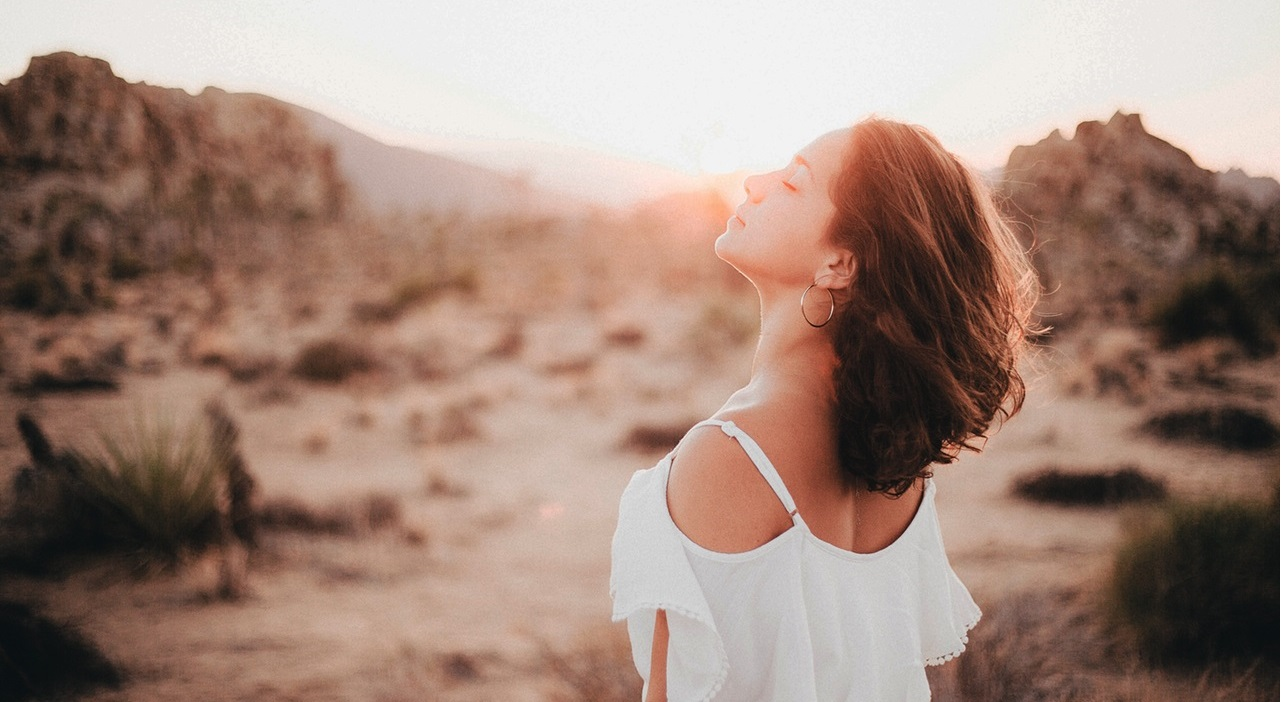
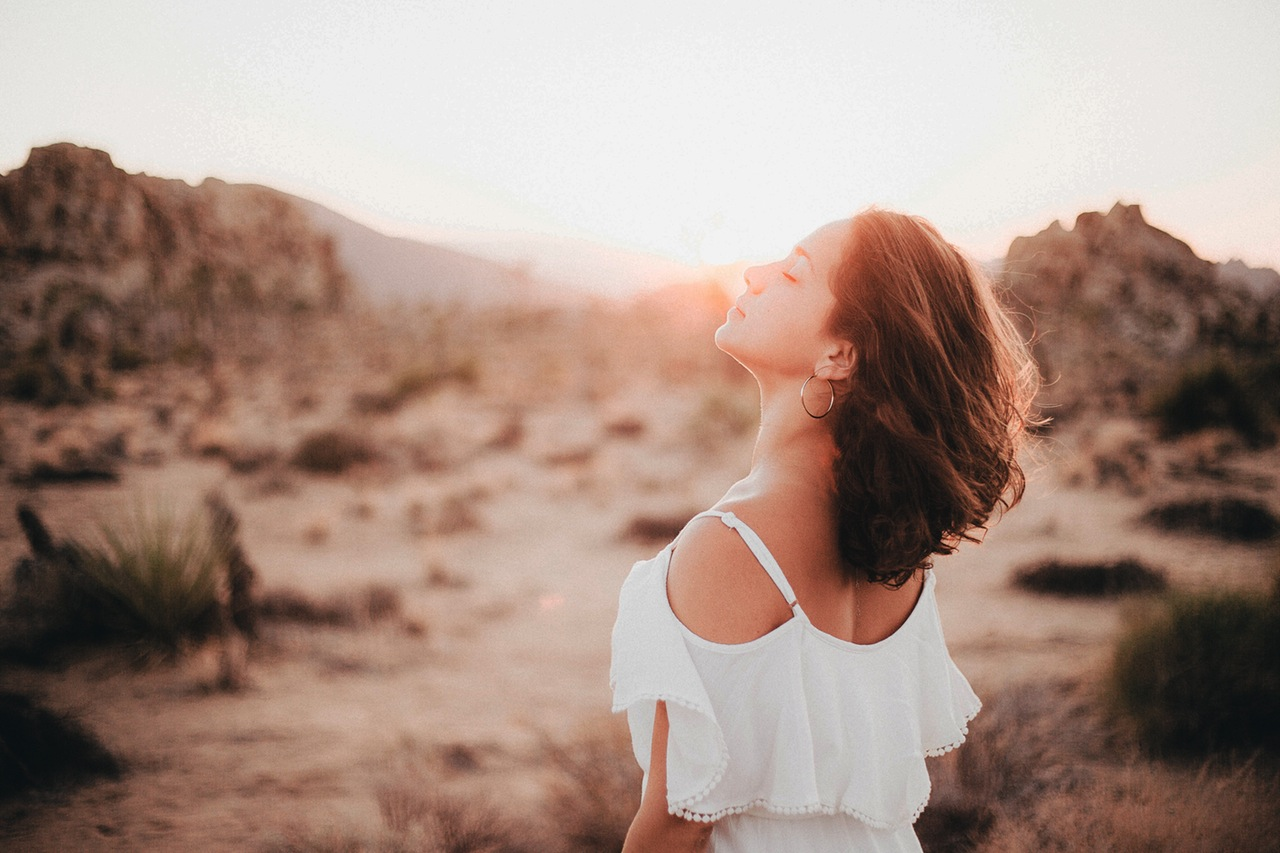
version actualizada

diff --git a/index.html b/index.html
@@ -36,10 +36,10 @@
                     <div class="collapse navbar-collapse navbar-ex1-collapse pull-right">         
                         <ul class="nav navbar-nav">
                             <li>
-                                <a class="links-scroll" href="#us">¿Quiénes somos?</a>
+                                <a class="links-scroll" href="#identidad">Valores</a>
                             </li>
                             <li>
-                                <a class="links-scroll" href="#identidad">Valores</a>
+                                <a class="links-scroll" href="#us">¿Quiénes Somos?</a>
                             </li>
                             <li>
                                 <a class="links-scroll" href="#services">Talleres</a>
@@ -66,7 +66,7 @@
                 </ol>
                 <div class="carousel-inner">
                     <div class="item active">
-                        <img src="images/sliders/m3.jpeg">
+                        <img src="images/sliders/m3.jpeg" >
                         <div class="container">
                             <div class="carousel-caption">
                                 <h2>El primer paso no te lleva  a donde quieres ir ...<br>
@@ -75,7 +75,7 @@
                         </div>
                     </div>
                     <div class="item">
-                        <img src="images/sliders/pai1.jpeg">
+                        <img src="images/sliders/pai1.jpeg" >
                         <div class="container">
                             <div class="carousel-caption">
                                 <h2>Ninguna persona, cosa o lugar  tiene poder sobre mí, por que solo yo gobierno en mi mente, yo creo en mí realidad y todo en lo que ella existe.</h2>        
@@ -191,7 +191,7 @@
             </div>
             <div class="row">
                 <div class="col-md-4 col-xs-12">
-                    <div id="terapia1" class="configdiv wow fadeInDown" data-wow-duration="10s">
+                    <div id="terapia1" class="configdiv wow fadeInDown" data-wow-duration="5s">
                         <div class="opacitydiv">
                             <div class="big">
                                 <h4 class="text-center">Terapia con niños</h4>
@@ -203,7 +203,7 @@
                     </div>
                 </div>
                 <div class="col-md-4 col-xs-12">
-                    <div id="terapia2" class="configdiv wow fadeInDown" data-wow-duration="10s">
+                    <div id="terapia2" class="configdiv wow fadeInDown" data-wow-duration="5s">
                         <div class="opacitydiv">
                             <div class="big">
                                 <h4 class="text-center">Terapia con adolescentes</h4>
@@ -215,7 +215,7 @@
                     </div>
                 </div>
                 <div class="col-md-4 col-xs-12">
-                    <div id="terapia3" class="configdiv wow fadeInDown" data-wow-duration="10s">
+                    <div id="terapia3" class="configdiv wow fadeInDown" data-wow-duration="5s">
                         <div class="opacitydiv">
                             <div class="big">
                                 <h4 class="text-center">Terapia con adultos</h4>
@@ -229,7 +229,7 @@
             </div>
             <div class="row">
                 <div class="col-md-4 col-xs-12">
-                    <div id="terapia4" class="configdiv wow fadeInDown" data-wow-duration="10s">
+                    <div id="terapia4" class="configdiv wow fadeInDown" data-wow-duration="5s">
                         <div class="opacitydiv">
                             <div class="big">
                                 <h4>Terapia de pareja</h4>
@@ -248,7 +248,7 @@
                     </div>
                 </div>
                 <div class="col-md-4 col-xs-12">
-                    <div id="terapia5" class="configdiv wow fadeInDown" data-wow-duration="10s">
+                    <div id="terapia5" class="configdiv wow fadeInDown" data-wow-duration="5s">
                         <div class="opacitydiv">
                             <div class="big">
                                 <h4>Terapia familiar</h4>
@@ -260,7 +260,7 @@
                     </div>
                 </div>  
                 <div class="col-md-4 col-xs-12">
-                    <div id="terapia6" class="configdiv wow fadeInDown" data-wow-duration="10s">
+                    <div id="terapia6" class="configdiv wow fadeInDown" data-wow-duration="5s">
                         <div class="opacitydiv">
                             <div class="big">
                                 <h4>Terapia para familias con problemas de Violencia</h4>
@@ -288,7 +288,7 @@
             </div>
             <div class="row">
                 <div class="col-md-6 col-xs-12">
-                    <div id="taller1" class="configdiv wow bounceInLeft" data-wow-duration="5s">
+                    <div id="taller1" class="configdiv wow fadeInDown" data-wow-duration="5s">
                         <div class="opacitydiv">
                             <div class="big">
                                 <h4>Taller Vivencial Identidad Femenina</h4>
@@ -301,7 +301,7 @@
                     </div>
                 </div>
                 <div class="col-md-6 col-xs-12">
-                    <div id="taller2" class="configdiv wow bounceInRight" data-wow-duration="5s">
+                    <div id="taller2" class="configdiv wow fadeInDown" data-wow-duration="5s">
                         <div class="opacitydiv">
                             <div class="big">
                                 <h4>Taller de seguridad infantil y prevención del abuso sexual</h4>
@@ -316,7 +316,7 @@
             </div>
             <div class="row">
                 <div class="col-md-6 col-xs-12">
-                    <div id="taller3" class="configdiv wow bounceInLeft" data-wow-duration="5s">
+                    <div id="taller3" class="configdiv wow fadeInDown" data-wow-duration="5s">
                         <div class="opacitydiv">
                             <div class="big">
                                 <h4>Plática de establecimiento de límites</h4>
@@ -328,7 +328,7 @@
                     </div>
                 </div>
                 <div class="col-md-6 col-xs-12">
-                    <div id="taller4" class="configdiv wow bounceInRight" data-wow-duration="5s">
+                    <div id="taller4" class="configdiv wow fadeInDown" data-wow-duration="5s">
                         <div class="opacitydiv">
                             <div class="big">
                                 <h4>Plática de Duelo en Niños</h4>
@@ -342,7 +342,7 @@
             </div>
             <div class="row">
                 <div class="col-md-6 col-xs-12">
-                    <div id="taller5" class="configdiv wow bounceInLeft" data-wow-duration="5s">
+                    <div id="taller5" class="configdiv wow fadeInDown" data-wow-duration="5s">
                         <div class="opacitydiv">
                             <div class="big">
                                 <h4>Plática de violencia</h4>
@@ -354,7 +354,7 @@
                     </div>
                 </div>
                 <div class="col-md-6 col-xs-12">
-                    <div id="taller6" class="configdiv wow bounceInRight" data-wow-duration="5s">
+                    <div id="taller6" class="configdiv wow fadeInDown" data-wow-duration="5s">
                         <div class="opacitydiv">
                             <div class="big">
                                 <h4>Plática de trabajo con Emociones</h4>
@@ -368,7 +368,7 @@
             </div>
             <div class="row">
                 <div class="col-md-6 col-xs-12">
-                    <div id="taller7" class="configdiv wow bounceInLeft" data-wow-duration="5s">
+                    <div id="taller7" class="configdiv wow fadeInDown" data-wow-duration="5s">
                         <div class="opacitydiv">
                             <div class="big">
                                 <h4>Plática de sexualidad</h4>
@@ -380,7 +380,7 @@
                     </div>
                 </div>
                 <div class="col-md-6 col-xs-12">
-                    <div id="taller8" class="configdiv wow bounceInRight" data-wow-duration="5s">
+                    <div id="taller8" class="configdiv wow fadeInDown" data-wow-duration="5s">
                         <div class="opacitydiv">
                             <div class="big">
                                 <h4>Plática de adicciones</h4>
@@ -395,7 +395,7 @@
             <div class="row">
                 <div class="col-md-3 xs-hidden"></div>
                 <div class="col-md-6 col-xs-12">
-                    <div id="taller9" class="configdiv wow bounceInLeft" data-wow-duration="5s">
+                    <div id="taller9" class="configdiv wow fadeInDown" data-wow-duration="5s">
                         <div class="opacitydiv">
                             <div class="big">
                                 <h4>Platica de Abuso Sexual</h4>
@@ -423,7 +423,7 @@
             </div>
             <div class="row">
                 <div class="col-md-6 col-xs-12">
-                    <div id="otros10" class="configdiv wow flipInX" data-wow-duration="3s">
+                    <div id="otros10" class="configdiv wow fadeInDown" data-wow-duration="3s">
                         <div class="opacitydiv">
                             <div class="big">
                                 <h4>Apoyo psicológico vía telefónica e Internet</h4>
@@ -435,7 +435,7 @@
                     </div>
                 </div>
                 <div class="col-md-6 col-xs-12">
-                    <div id="otros11" class="configdiv wow flipInX" data-wow-duration="3s">
+                    <div id="otros11" class="configdiv wow fadeInDown" data-wow-duration="3s">
                         <div class="opacitydiv">
                             <div class="big">
                                 <h4>Trabajo con agresores</h4>
@@ -449,7 +449,7 @@
             </div>
             <div class="row">
                 <div class="col-md-6 col-xs-12">
-                    <div id="otros12" class="configdiv wow flipInX" data-wow-duration="3s">
+                    <div id="otros12" class="configdiv wow fadeInDown" data-wow-duration="3s">
                         <div class="opacitydiv">
                             <div class="big">
                                 <h4>Grupo Horus</h4>
@@ -463,7 +463,7 @@
                     </div>
                 </div>
                 <div class="col-md-6 col-xs-12">
-                    <div id="otros13" class="configdiv wow flipInX" data-wow-duration="3s">
+                    <div id="otros13" class="configdiv wow fadeInDown" data-wow-duration="3s">
                         <div class="opacitydiv">
                             <div class="big">
                                 <h4>ECOS</h4>
@@ -479,7 +479,7 @@
             <div class="row">
                 <div class="col-md-3 xs-hidden"></div>
                 <div class="col-md-6 col-xs-12">
-                    <div id="otros14" class="configdiv wow flipInX" data-wow-duration="10s">
+                    <div id="otros14" class="configdiv wow fadeInDown" data-wow-duration="5s">
                         <div class="opacitydiv">
                             <div class="big">
                                 <h4>Área Académica y de Investigación.</h4>
@@ -502,8 +502,8 @@
         </div>
     </section>
     <section id="testimonio"><!--testimonios-->
-        <div class="container">
-            <div class="row">
+        <div class="row quote">
+            <div class="container">
                 <div class="col-xs-12">
                     <div>
                         <h2 class="tittle text-center">Testimonio</h2>
@@ -531,8 +531,8 @@
             </div>
             <div class="row">
                 <div class="col-md-11 col-xs-12">
-                    <div class="pull-right">
-                        <iframe src="https://www.google.com/maps/embed?pb=!1m18!1m12!1m3!1d940.7530302074254!2d-99.14510917083477!3d19.41188226404922!2m3!1f0!2f0!3f0!3m2!1i1024!2i768!4f13.1!3m3!1m2!1s0x85d1fedf9ea96887%3A0xc500348f1d9c23a5!2sDr.+Duran+4%2C+Doctores%2C+06720+Ciudad+de+M%C3%A9xico%2C+D.F.!5e0!3m2!1ses-419!2smx!4v1462417936700" width="400" height="300" frameborder="0" style="border:0" allowfullscreen></iframe>
+                    <div class="pull-right map">
+                        <iframe src="https://www.google.com/maps/embed?pb=!1m18!1m12!1m3!1d940.7530302074254!2d-99.14510917083477!3d19.41188226404922!2m3!1f0!2f0!3f0!3m2!1i1024!2i768!4f13.1!3m3!1m2!1s0x85d1fedf9ea96887%3A0xc500348f1d9c23a5!2sDr.+Duran+4%2C+Doctores%2C+06720+Ciudad+de+M%C3%A9xico%2C+D.F.!5e0!3m2!1ses-419!2smx!4v1462417936700" width="450" height="390" frameborder="0" style="border-radius:10px" allowfullscreen></iframe>
                     </div>
                 <div class="col-md-6 col-xs-12">
                     <div class="infobox">
@@ -542,14 +542,15 @@
                             Del. Cuauhtemoc, C.P. 06720, México D.F.
                             A una calle del metro Obrera de la línea 8.</div>
                         </div>
-                         <div>
+                         <div class="move">
                             <i class="fa fa-2x fa-phone infoico" aria-hidden="true"></i>
                             <span>5578-9197  ó  1998-4568</span>
                         </div>
-                        <div>
+                        <div class="move">
                             <i class="fa fa-2x fa-envelope infoico" aria-hidden="true"></i>
                             <span>contacto@musas.org.mx</span>
                         </div>
+                        <div class="move">
                             <i class="fa fa-2x fa-facebook infoico" aria-hidden="true"></i>
                             <span><a class="face" href="https://www.facebook.com/people/Musas-AC/100004654429224">MUSAS AC</a></span>
                         </div>

diff --git a/css/main.css b/css/main.css
@@ -31,7 +31,9 @@
 
 /*Carrusel*/
 
-#myCarousel {
+#myCarousel img{
+    height: 650px; 
+    width: 100%;
   }
  #myCarousel h2 {
     padding: 0.5em 0em;
@@ -130,7 +132,8 @@
   background-image: url(../images/tile1.png);
   background-position: center center;
   background-repeat:repeat;
-  background-attachment: fixed; 
+  background-attachment: fixed;
+  padding-top:50px; 
 }
 #terapia1{
   background-image: url('../images/terapias/t1.jpg');
@@ -248,6 +251,13 @@
 }
 /*testimonio*/
 #testimonio{
+  background-image: url(../images/tile1.png);
+  background-position: center center;
+  background-repeat:repeat;
+  background-attachment: fixed;
+  padding: 50px 0;
+}
+.quote{
 
   background: #8A788B;
 }
@@ -271,7 +281,7 @@
   width: 100%;
 }
 .infobox{
-  background-color: #575761;
+  background-color: #8A788B;
   border-radius: 15px;
   color: #FFFFFF;
   font-size: 1em;
@@ -280,8 +290,8 @@
 }
 .direction{
   position: relative;
-  bottom: 20px;
-  left: 10px;
+  bottom: 40px;
+  left: 40px;
   display: inline-block;
 }
 .face{
@@ -301,16 +311,22 @@
 .right{
   display: inline-block;
 }
-/*#241423
-2B202E*/
-
-@media (min-width : 376px) and (max-width : 667px){
-  .carousel-caption{
-    h2{
-      font-size: 50%;
-    }
-  }
+.map{
+  position: relative;
+  top: 35px;
 }
+.move{
+  position: relative;
+  bottom: 30px;
+}
+/*#241423
+2B202E
+ #8A788B;*/
+
+@media (min-width : 76px) and (max-width : 667px){
+  .carousel-caption{
+      display: none;
+    }
 @media (min-width : 667px) and (max-width : 1024px){
     
 }
